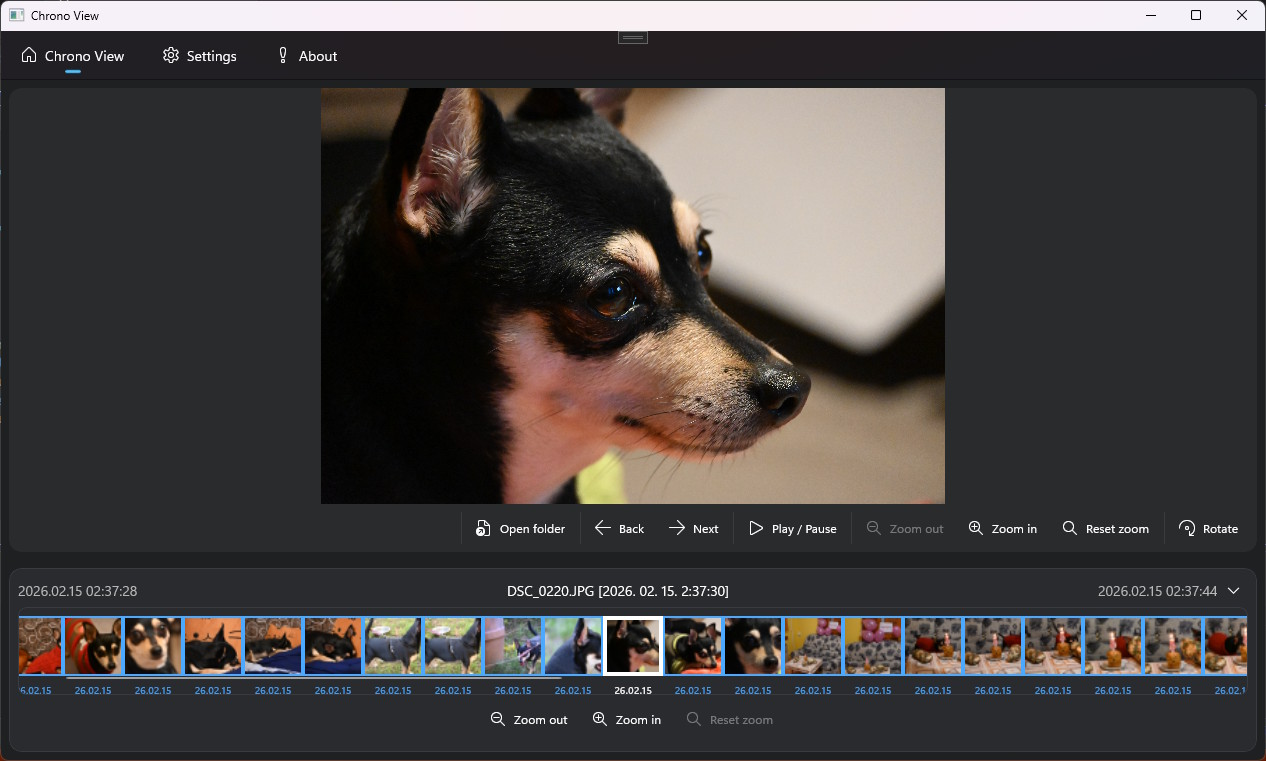
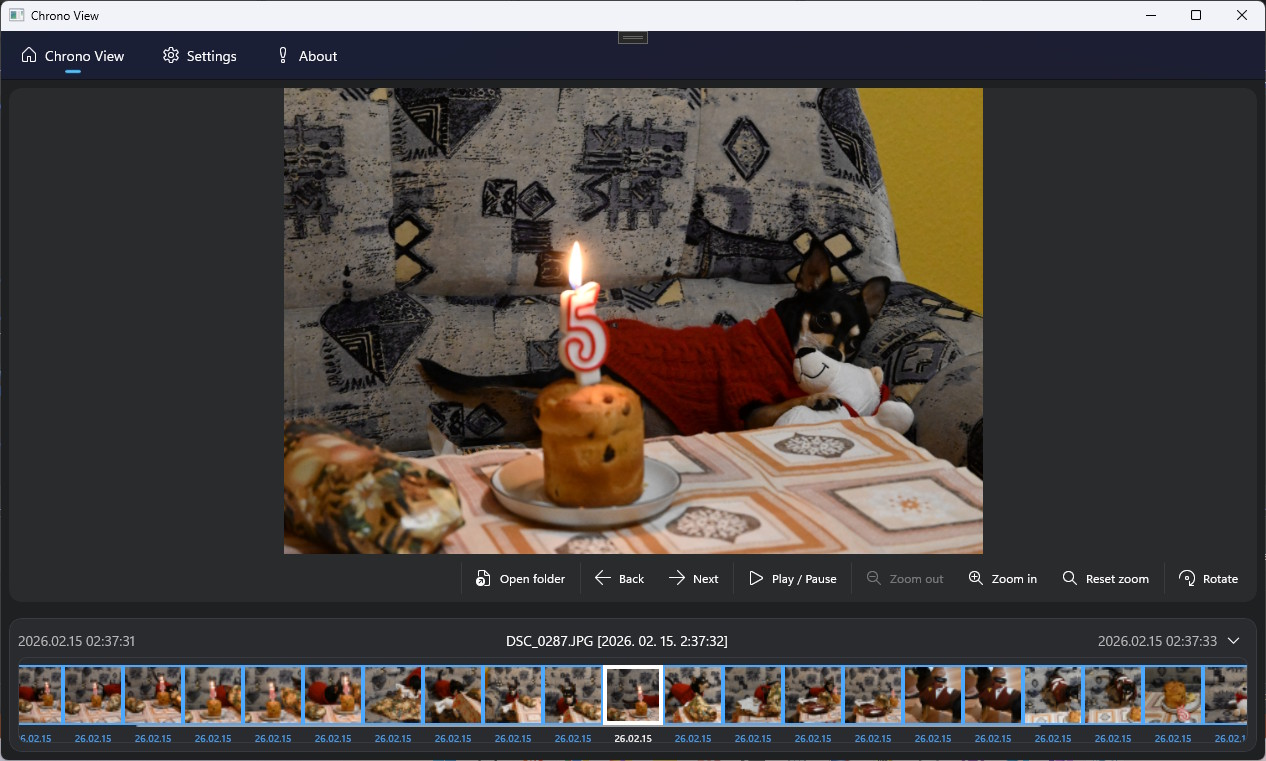
remove timeline zoom functions

diff --git a/Project/App4di.Dotnet.ChronoView.WinUI/Control/TimelineControl.xaml b/Project/App4di.Dotnet.ChronoView.WinUI/Control/TimelineControl.xaml
@@ -80,12 +80,6 @@
                 </ScrollViewer>
             </Grid>
         </Border>
-
-        <!-- Command Bar -->
-        <CommandBar Grid.Row="2" DefaultLabelPosition="Right" HorizontalAlignment="Center" IsSticky="True">
-            <AppBarButton x:Uid="Cmd_ZoomOut" Icon="ZoomOut" Command="{Binding ViewModel.ZoomOutCommand, ElementName=Root}"/>
-            <AppBarButton x:Uid="Cmd_ZoomIn"  Icon="ZoomIn"  Command="{Binding ViewModel.ZoomInCommand, ElementName=Root}"/>
-            <AppBarButton x:Uid="Cmd_ResetZoom" Icon="Zoom" Command="{Binding ViewModel.ResetZoomCommand, ElementName=Root}"/>
-        </CommandBar>
+        
     </Grid>
 </UserControl>

diff --git a/Project/App4di.Dotnet.ChronoView.Infrastructure/ViewModel/TimelineViewModel.cs b/Project/App4di.Dotnet.ChronoView.Infrastructure/ViewModel/TimelineViewModel.cs
@@ -20,9 +20,6 @@ public class TimelineViewModel : NotificationObject
     #endregion
 
     #region Commands
-    public ICommand ZoomInCommand { get; }
-    public ICommand ZoomOutCommand { get; }
-    public ICommand ResetZoomCommand { get; }
     public ICommand CollapseExpandCommand { get; }
     #endregion
 
@@ -61,10 +58,6 @@ public class TimelineViewModel : NotificationObject
                 RaisePropertyChanged(nameof(SelectedImage));
 
                 SelectedItemChanged?.Invoke(this, value);
-
-                (ZoomInCommand as RelayCommand)?.RaiseCanExecuteChanged();
-                (ZoomOutCommand as RelayCommand)?.RaiseCanExecuteChanged();
-                (ResetZoomCommand as RelayCommand)?.RaiseCanExecuteChanged();
             }
         }
     }
@@ -90,7 +83,6 @@ public class TimelineViewModel : NotificationObject
             if (SetProperty(ref pixelsPerSecond, clamped))
             {
                 CalculateTimelineMetrics();
-                RiseAllButtonsExecuteChanged();
             }
         }
     }
@@ -181,7 +173,6 @@ public class TimelineViewModel : NotificationObject
         set
         {
             SetProperty(ref field, value);
-            RiseAllButtonsExecuteChanged();
         }
     }
     #endregion
@@ -198,9 +189,6 @@ public class TimelineViewModel : NotificationObject
         DefaultPixelsPerSecond = 0.02;
         pixelsPerSecond = DefaultPixelsPerSecond;
         
-        ZoomInCommand = new RelayCommand(_ => ZoomIn(), _ => !IsLocked && SelectedTimeLineItem != null && PixelsPerSecond < MaxPixelsPerSecond);
-        ZoomOutCommand = new RelayCommand(_ => ZoomOut(), _ => !IsLocked && SelectedTimeLineItem != null && PixelsPerSecond > MinPixelsPerSecond);
-        ResetZoomCommand = new RelayCommand(_ => ResetZoom(), _ => !IsLocked && SelectedTimeLineItem != null && Math.Abs(PixelsPerSecond - DefaultPixelsPerSecond) > 0.0000001);
         CollapseExpandCommand = new RelayCommand(_ => CollapseExpand(), _ => true);
 
         Items.CollectionChanged += (s, e) => OnItemsChanged();
@@ -208,13 +196,6 @@ public class TimelineViewModel : NotificationObject
     #endregion
 
     #region Functions
-    void RiseAllButtonsExecuteChanged()
-    {
-        (ZoomInCommand as RelayCommand)?.RaiseCanExecuteChanged();
-        (ZoomOutCommand as RelayCommand)?.RaiseCanExecuteChanged();
-        (ResetZoomCommand as RelayCommand)?.RaiseCanExecuteChanged();
-    }
-
     private void ZoomIn()
     {
         PixelsPerSecond = Math.Min(PixelsPerSecond * ZoomFactor, MaxPixelsPerSecond);
@@ -298,8 +279,6 @@ public class TimelineViewModel : NotificationObject
             RaisePropertyChanged(nameof(PixelsPerSecond));
             CalculateTimelineMetrics();
         }
-
-        RiseAllButtonsExecuteChanged();
     }
     #endregion
 }

diff --git a/Project/App4di.Dotnet.ChronoView.Infrastructure/ViewModel/HomeViewModel.cs b/Project/App4di.Dotnet.ChronoView.Infrastructure/ViewModel/HomeViewModel.cs
@@ -14,6 +14,11 @@ namespace App4di.Dotnet.ChronoView.Infrastructure.ViewModel;
 
 public class HomeViewModel : NotificationObject
 {
+    #region Constants
+    private const int DefaultTimelineRowHeight = 150;
+    private const int CollapsedTimelineRowHeight = 60;
+    #endregion
+
     #region Commands
     public ICommand BackCommand { get; }
     public ICommand NextCommand { get; }
@@ -259,12 +264,12 @@ public class HomeViewModel : NotificationObject
         {
             if (e.PropertyName == nameof(TimelineViewModel.IsCollapsed))
             {
-                TimelineRowHeight = this.timelineViewModel.IsCollapsed ? 60 : 200;
+                TimelineRowHeight = this.timelineViewModel.IsCollapsed ? CollapsedTimelineRowHeight : DefaultTimelineRowHeight;
             }
         };
 
         // Initial state
-        TimelineRowHeight = this.timelineViewModel.IsCollapsed ? 60 : 200;
+        TimelineRowHeight = this.timelineViewModel.IsCollapsed ? CollapsedTimelineRowHeight : DefaultTimelineRowHeight;
         this.timelineViewModel.Items = TimelineItems;
         this.timelineViewModel.SelectedTimeLineItem = SelectedImageItem;
 

diff --git a/Project/App4di.Dotnet.ChronoView.WinUI/Control/TimelineControl.xaml.cs b/Project/App4di.Dotnet.ChronoView.WinUI/Control/TimelineControl.xaml.cs
@@ -325,9 +325,5 @@ public sealed partial class TimelineControl : UserControl
                 ViewModel.SelectedTimeLineItem = value;
         }
     }
-
-    public void ZoomIn() => ViewModel?.ZoomInCommand?.Execute(null);
-    public void ZoomOut() => ViewModel?.ZoomOutCommand?.Execute(null);
-    public void ResetZoom() => ViewModel?.ResetZoomCommand?.Execute(null);
     #endregion
 }
